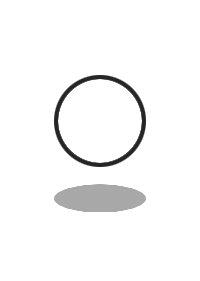
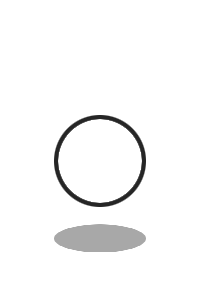
Fixed positioning bug

Changed region(s): [[0.27, 0.2562, 0.75, 0.7687], [0.27, 0.7972, 0.75, 0.911]]

diff --git a/Project/Oquonie/Oquonie/xxiivvWorld.m b/Project/Oquonie/Oquonie/xxiivvWorld.m
@@ -136,7 +136,7 @@
 	// Init
 	worldEvent[1][0] = [NSArray arrayWithObjects: @"",@"",@"", @" ",@"", nil];
 	// Events
-	[worldEvent[1] addObject:[NSArray arrayWithObjects: @"1",@"0",@"blocker.0", @"1 ",@"", nil]];
+	[worldEvent[1] addObject:[NSArray arrayWithObjects: @"1",@"0",@"wizard3.r.f", @"1 ",@"", nil]];
 	// Doors
 	[worldEvent[1] addObject:[NSArray arrayWithObjects: @"0",@"2",@"none", @"",@"2", nil]]; 
 	
@@ -369,30 +369,31 @@
 			UIScrollView *event = [[UIScrollView alloc] initWithFrame:[self tileLocation:4 :posX :posY]];
 			[event setTag:300];
 
-			UIImageView *sprite = [[UIImageView alloc] initWithFrame:CGRectMake(0, event.frame.size.height-self.userPlayer.frame.size.height, self.userPlayer.frame.size.width, self.userPlayer.frame.size.height)];
+			UIImageView *sprite = [[UIImageView alloc] initWithFrame:CGRectMake(0, 0, event.frame.size.width, event.frame.size.height)];
 			[sprite setContentMode:UIViewContentModeScaleAspectFill];
 			[sprite setImage:[UIImage imageNamed: [NSString stringWithFormat:@"%@.png",test[2] ] ]];
 			[sprite setTag:300];
+			
 			[event addSubview:sprite];
 			
-			if( [test[3] intValue] > 0 ){
-				
-				UIImageView *spell = [[UIImageView alloc] initWithFrame:CGRectMake(0, 0, self.userPlayer.frame.size.width, self.userPlayer.frame.size.width)];
-				[spell setContentMode:UIViewContentModeScaleAspectFill];
-				[spell setImage:[UIImage imageNamed: @"event.chat.png" ]];
-				[spell setTag:310];
-				[event addSubview:spell];
-				
-				CGRect origin = spell.frame;
-				spell.frame = CGRectOffset(spell.frame, 0, 20);
-				spell.alpha = 0;
-				[UIView beginAnimations: @"Fade In" context:nil];
-				[UIView setAnimationDuration:0.5];
-				[UIView setAnimationDelay:1];
-				spell.frame = origin;
-				spell.alpha = 1;
-				[UIView commitAnimations];
-			}
+//			if( [test[3] intValue] > 0 ){
+//				
+//				UIImageView *spell = [[UIImageView alloc] initWithFrame:CGRectMake(0, 0, self.userPlayer.frame.size.width, self.userPlayer.frame.size.width)];
+//				[spell setContentMode:UIViewContentModeScaleAspectFill];
+//				[spell setImage:[UIImage imageNamed: @"event.chat.png" ]];
+//				[spell setTag:310];
+//				[event addSubview:spell];
+//				
+//				CGRect origin = spell.frame;
+//				spell.frame = CGRectOffset(spell.frame, 0, 20);
+//				spell.alpha = 0;
+//				[UIView beginAnimations: @"Fade In" context:nil];
+//				[UIView setAnimationDuration:0.5];
+//				[UIView setAnimationDelay:1];
+//				spell.frame = origin;
+//				spell.alpha = 1;
+//				[UIView commitAnimations];
+//			}
 			
 			[self.view addSubview:event];
 		}
